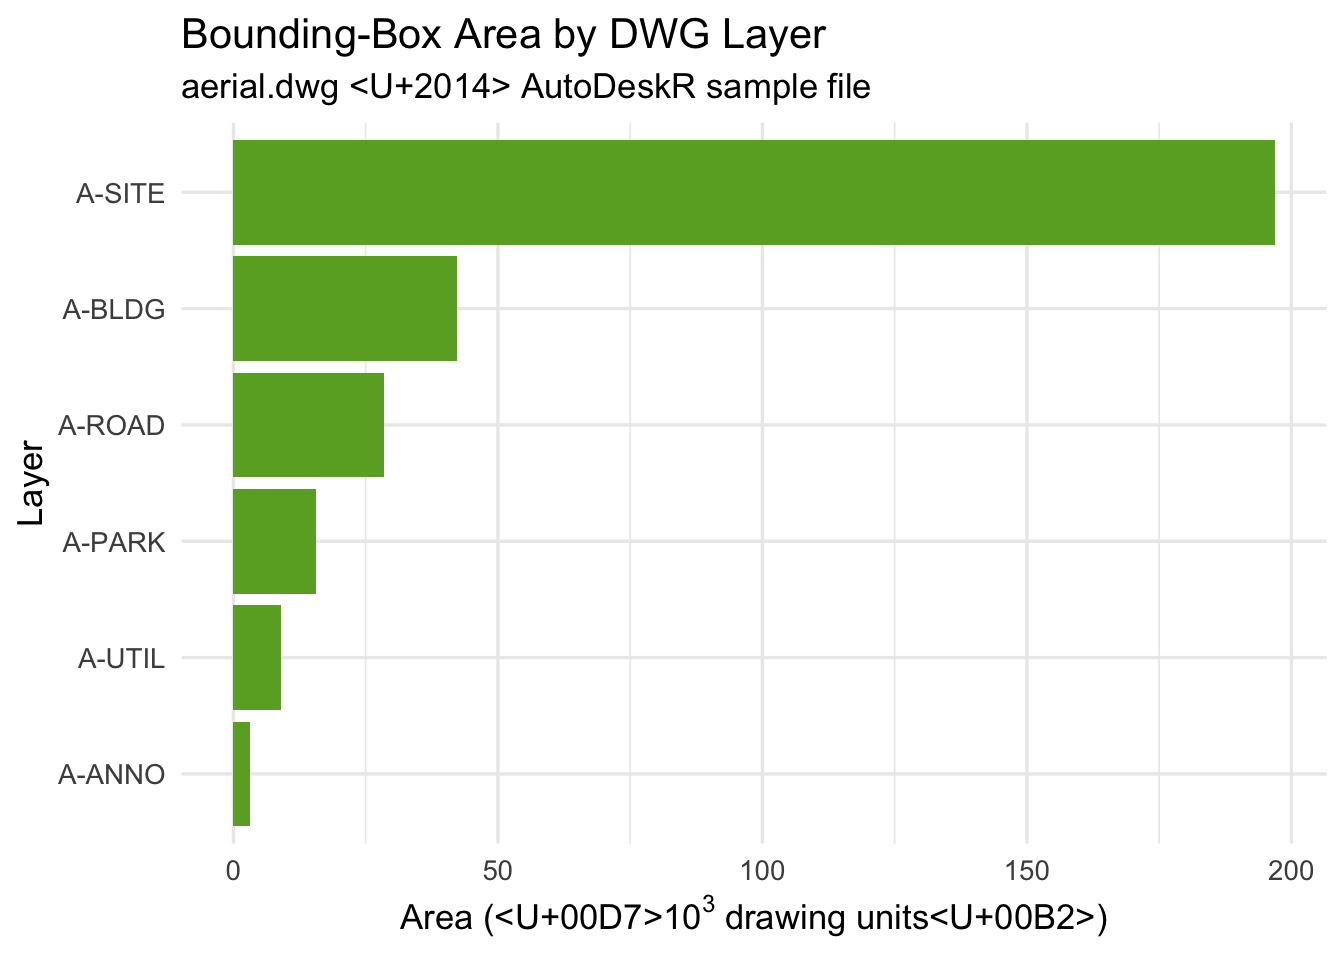
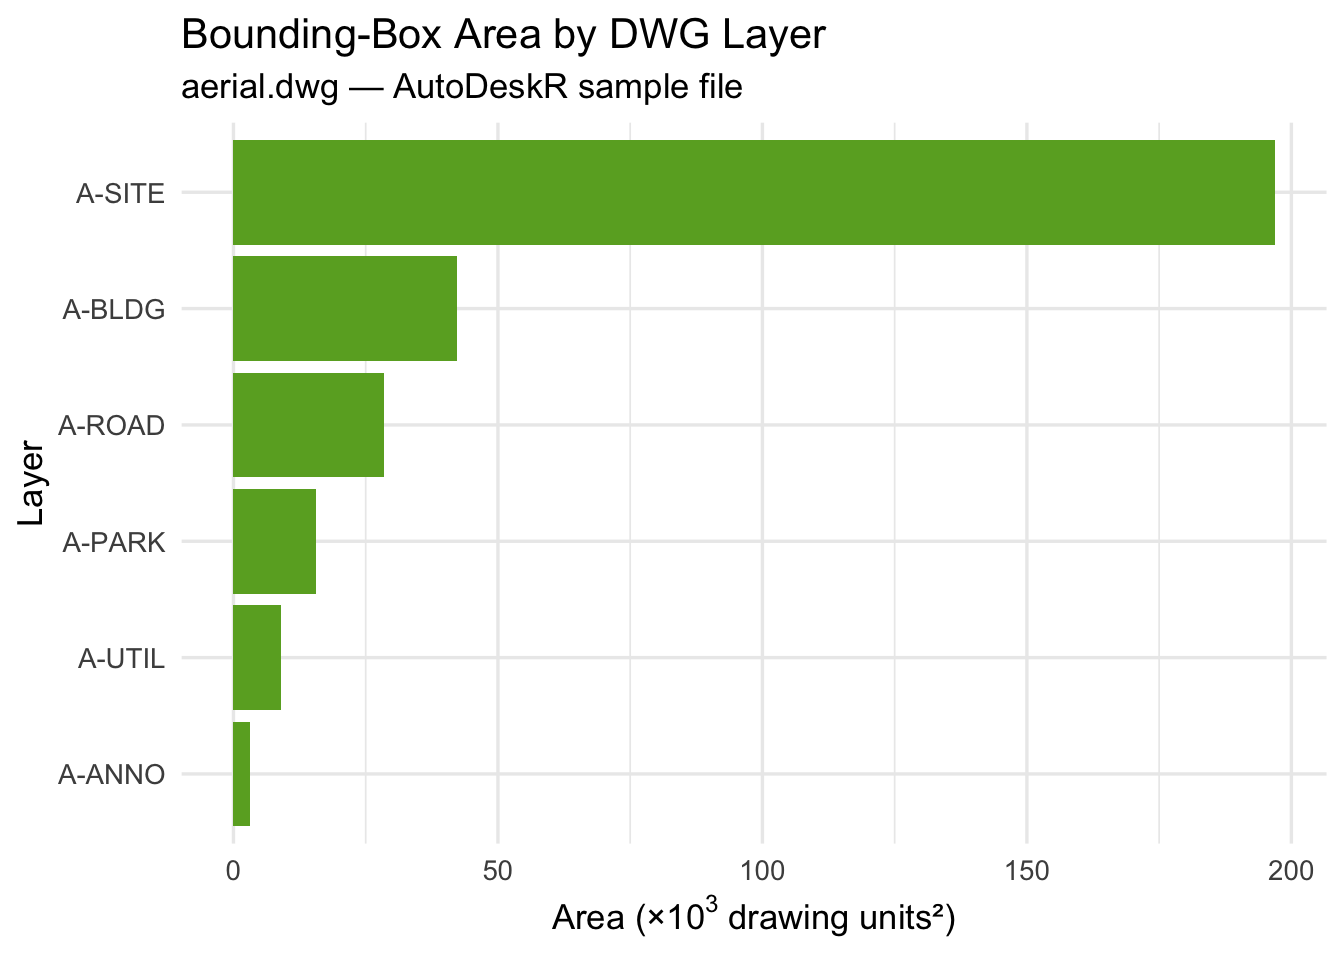
So many updates

Changed region(s): [[0.25, 0.0625, 0.6562, 0.125], [0.2812, 0.9375, 0.8125, 0.9688]]

diff --git a/fix-epub.py b/fix-epub.py
@@ -1,0 +1,24 @@
+#!/usr/bin/env python3
+"""Post-render script: patch bare <figure class> in EPUB XHTML."""
+import os
+import re
+import zipfile
+
+EPUB = "docs/R-for-the-Built-Environment.epub"
+
+if not os.path.exists(EPUB):
+    raise SystemExit(0)
+
+tmp = EPUB + ".tmp"
+with zipfile.ZipFile(EPUB, "r") as zin, \
+     zipfile.ZipFile(tmp, "w", zipfile.ZIP_DEFLATED) as zout:
+    for item in zin.infolist():
+        data = zin.read(item.filename)
+        if item.filename.endswith(".xhtml"):
+            text = data.decode("utf-8")
+            text = re.sub(r"<figure class>", '<figure class="figure">', text)
+            data = text.encode("utf-8")
+        zout.writestr(item, data)
+
+os.replace(tmp, EPUB)
+print(f'Patched {EPUB}: bare <figure class> -> <figure class="figure">')